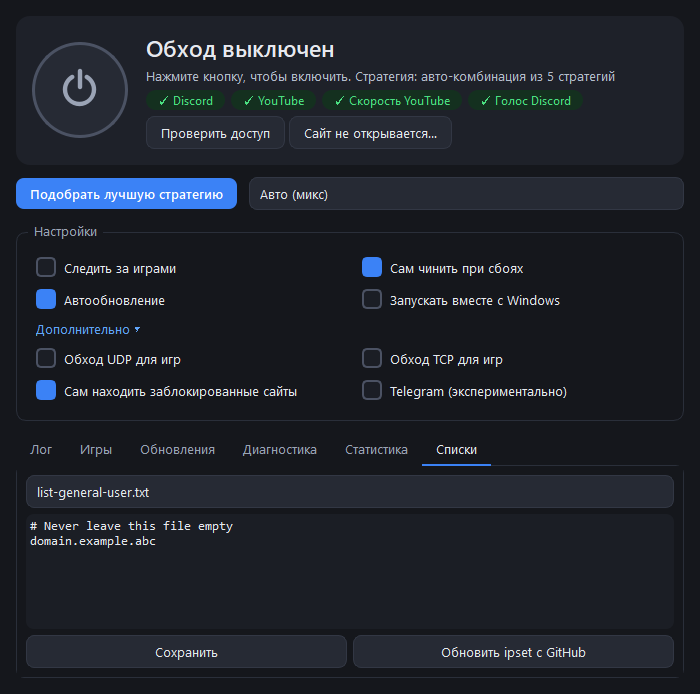
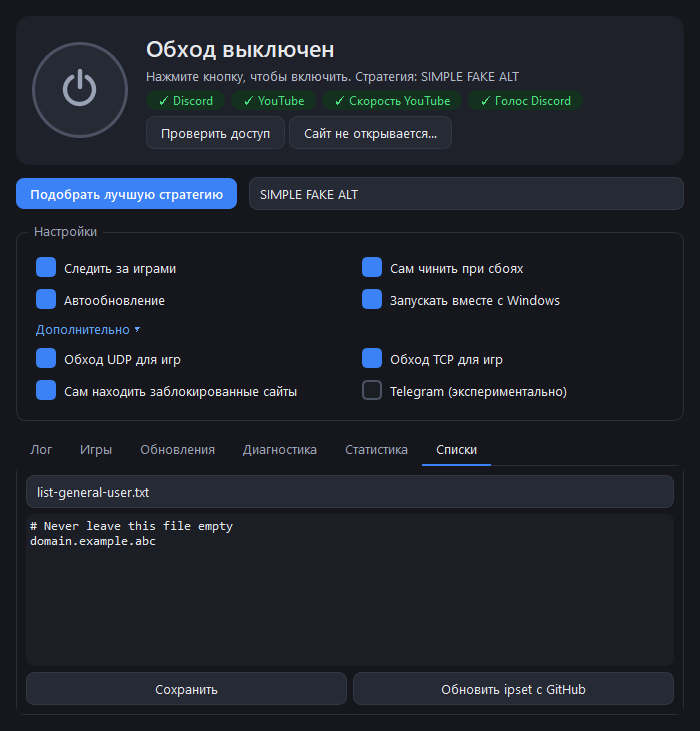
Games tab hint follows the setting; refreshed screenshots; README: game pick, Chrome-TLS probes

diff --git a/app/gui/window.py b/app/gui/window.py
@@ -1004,7 +1004,7 @@ class MainWindow(QWidget):
         rows = [(k, v) for k, v in games.items() if k not in ign]
         self.games_empty.setVisible(not rows)
         self.games_empty.setText(
-            "Пока игр не найдено. Запустите игру — она появится здесь сама." if self.watcher else
+            "Пока игр не найдено. Запустите игру — она появится здесь сама." if self.settings.get("game_watch") else
             "Включите «Следить за играми» в настройках — запущенные игры появятся здесь сами.")
         self.table.setVisible(bool(rows))
         self.table.setRowCount(len(rows))
